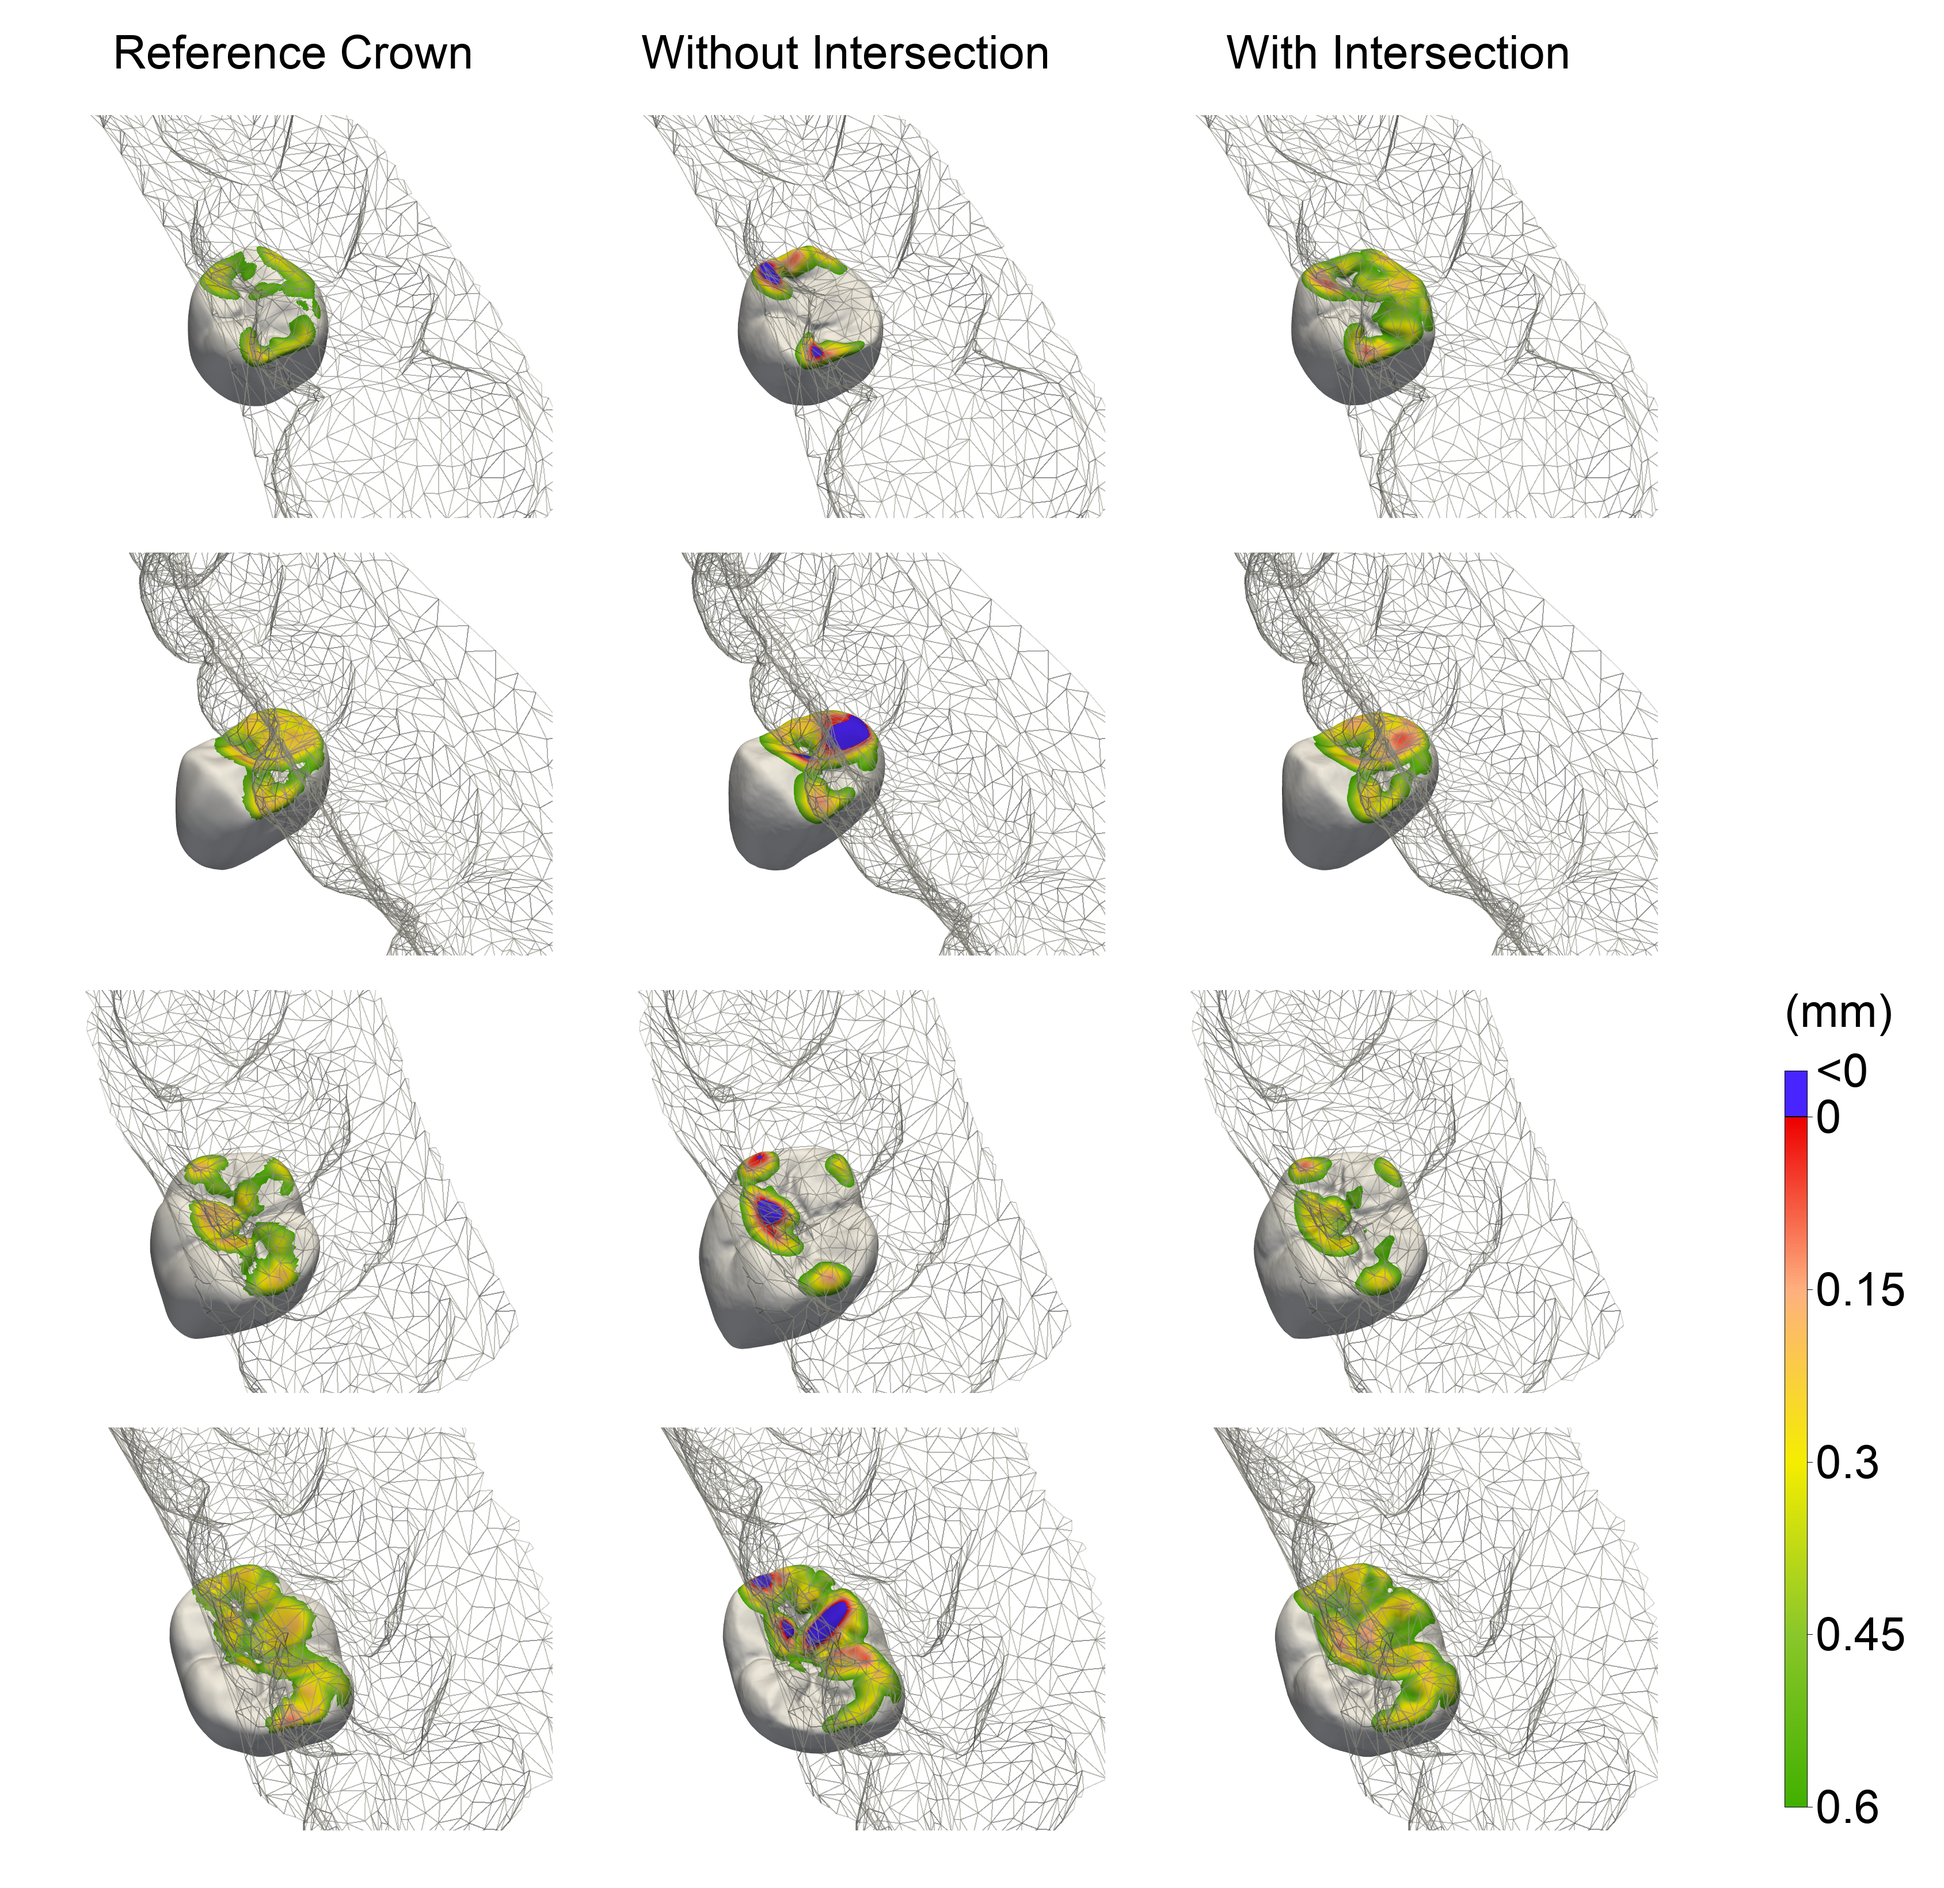
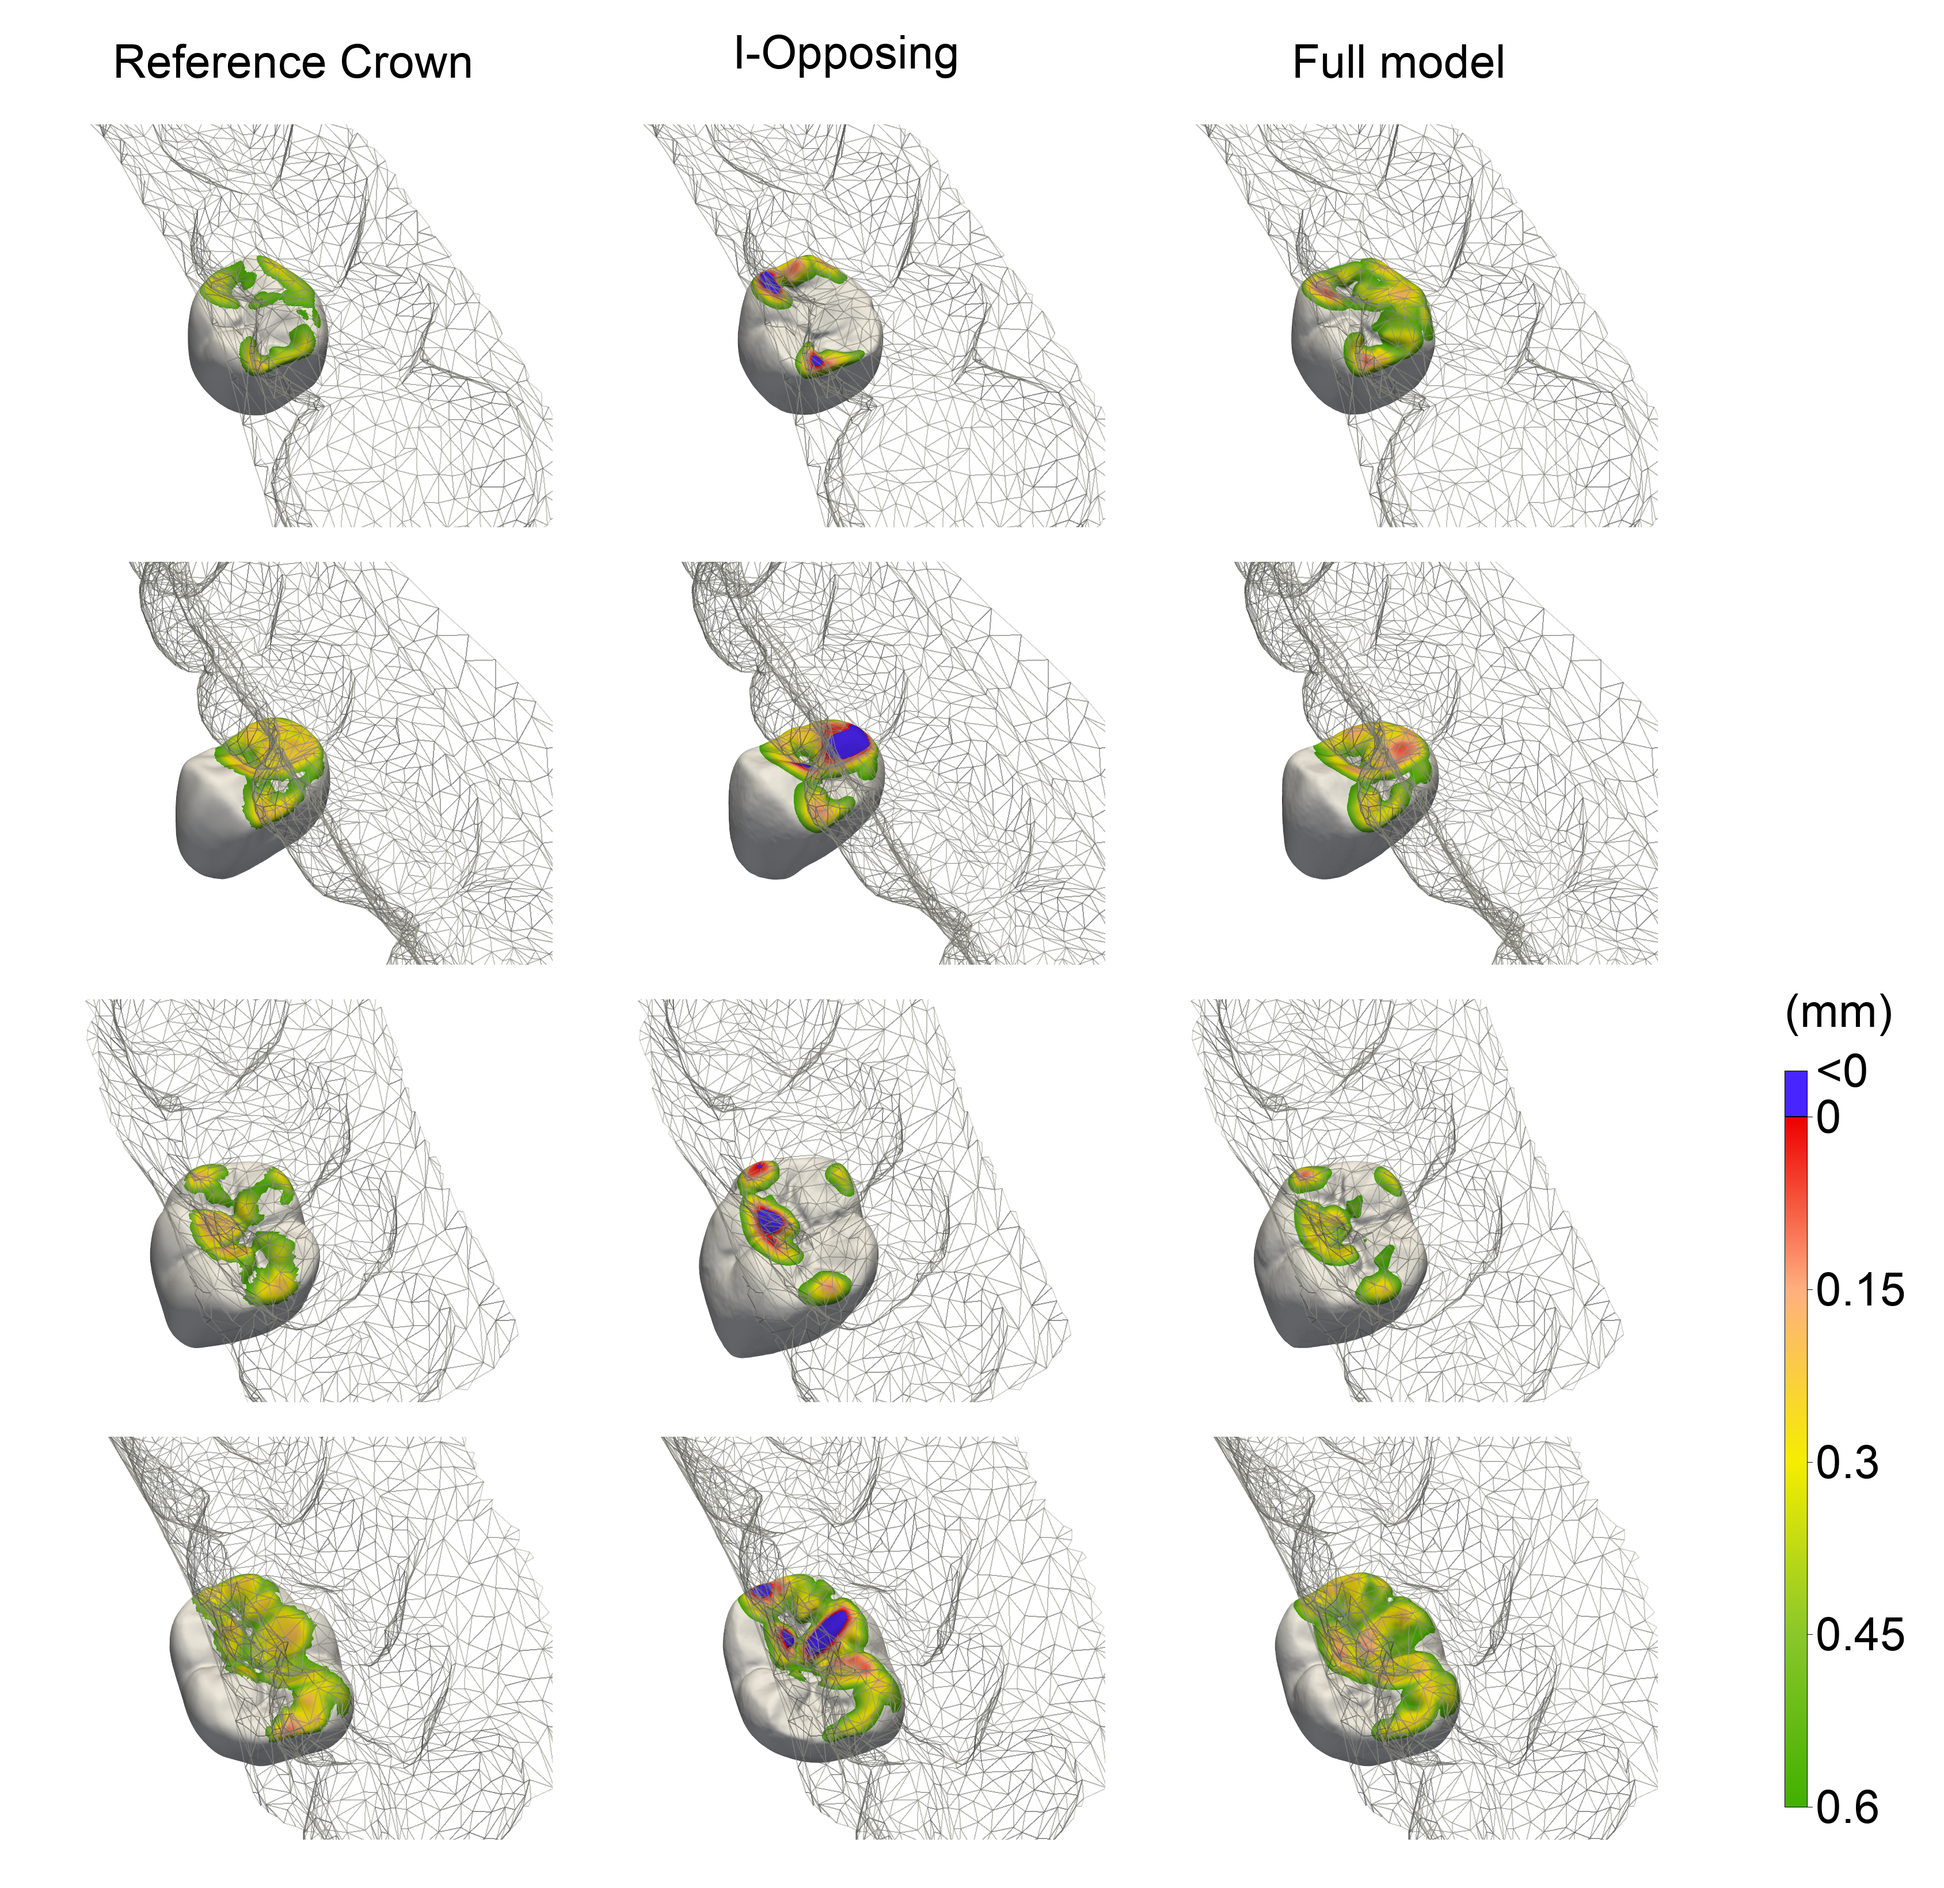
update data

Changed region(s): [[0.5908, 0.0, 0.8706, 0.9951], [0.3109, 0.0, 0.5908, 0.9951], [0.0311, 0.0, 0.2798, 0.9951]]

diff --git a/figures/ablation_occlusion/step3_merge_imgs.py b/figures/ablation_occlusion/step3_merge_imgs.py
@@ -27,7 +27,7 @@ def main() -> None:
     # 上方文字和图片的距离
     parser.add_argument("--header-gap", type=int, default=80, help="distance from the bottom of column label text to images (pixels)")
     parser.add_argument("--font-size", type=int, default=80, help="column label font size")
-    parser.add_argument("--labels", nargs=3, default=("Reference Crown", "Without Intersection", "With Intersection"), metavar=("GT", "WITHOUT", "WITH"))
+    parser.add_argument("--labels", nargs=3, default=("Reference Crown", "I-Opposing", "Full model"), metavar=("GT", "WITHOUT", "WITH"))
     parser.add_argument("--background", default="white")
     parser.add_argument("--clim", nargs="+", type=float, default=DEFAULT_LIMITS, help="clearance limits in mm: MAX or 0 MAX (default: 0 0.2); use the same limits as step2")
     parser.add_argument("--colorbar-font-size", type=int, default=80)
